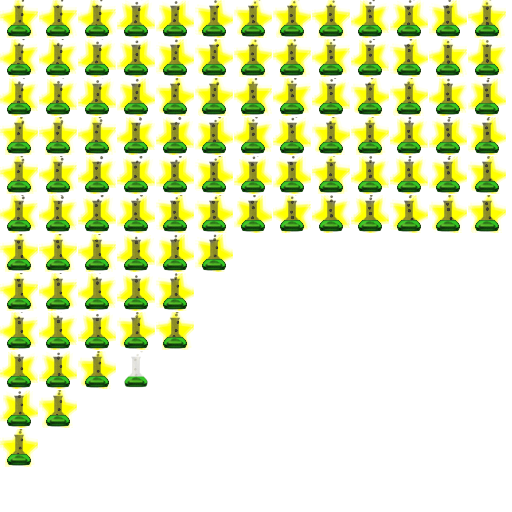
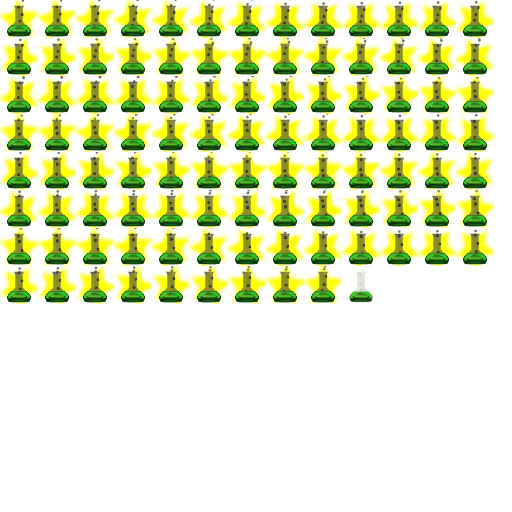
Figured out the ezgui atlas; previous atlas code unnecessary

diff --git a/ScienceAlert/Toolbar/ApplicationLauncher/AppLauncherInterface.cs b/ScienceAlert/Toolbar/ApplicationLauncher/AppLauncherInterface.cs
@@ -37,7 +37,7 @@ namespace ScienceAlert.Toolbar
 
         private IDrawable drawable;
         private ApplicationLauncherButton button;
-        private PackedSprite animationSprite;
+        private PackedSprite sprite; // animations: Spin, Unlit
 
 /******************************************************************************
  *                    Implementation Details
@@ -54,100 +54,32 @@ namespace ScienceAlert.Toolbar
             while (!ApplicationLauncher.Ready)
                 yield return null;
 
-            Log.Write("Testing app launcher textures");
-
-            Func<int, int, string> GetFrame = delegate(int frame, int desiredLen)
-            {
-                string str = frame.ToString();
-
-                while (str.Length < desiredLen)
-                    str = "0" + str;
-
-                return str;
-            };
-
-            #region atlas creation
-
-#if (DEBUG && GENERATE_ATLAS)
-            //Log.Write("Generating atlas");
-
-            //ConfigNode node;
-            //var textures = new List<Texture2D>();
-
-            //Func<int, int, string> GetFrame = delegate(int frame, int desiredLen)
-            //{
-            //    string str = frame.ToString();
-
-            //    while (str.Length < desiredLen)
-            //        str = "0" + str;
-
-            //    return str;
-            //};
-
-            //for (int i = 0; i < 100; ++i)
-            //{
-            //    var intermediate = GameDatabase.Instance.GetTexture(string.Format("/flask{0}", GetFrame(i + 1, 4)), false);
-            //    if (intermediate == null) Log.Error("failed to find frame " + string.Format("flask{0}", GetFrame(i + 1, 4)));
-
-            //    textures.Add(intermediate);
-            //}
-            //var atlasTexture = GuiUtil.CreateAtlas(512, 512, out node, textures);
-            //atlasTexture.SaveToDisk("finished_atlas.png");
-#endif
-            #endregion
-
-            // looks like we need to use a PackedSprite if we want
-            // button animations
-            //var normalTex = GameDatabase.Instance.GetTexture("ScienceAlert/normal", false);
-            //if (normalTex == null) Log.Error("normal is null");
 
             var sheet = ResourceUtil.GetEmbeddedTexture("ScienceAlert.Resources.sheet_app.png", true, false);
             if (sheet == null) Log.Error("Failed to locate embedded app sheet texture!");
 
-            sheet.CreateReadable().SaveToDisk("extracted.png");
-
-            //Log.Write("loaded normaltex");
-            //normalTex.SaveToDisk("saved.png");
-
-            animationSprite = PackedSprite.Create("ScienceAlert.Button.Animation", Vector3.zero);
-            animationSprite.SetMaterial(new Material(Shader.Find("Sprite/Vertex Colored")) { mainTexture = sheet });
-            
+            sprite = PackedSprite.Create("ScienceAlert.Button.Animation", Vector3.zero);
+            sprite.SetMaterial(new Material(Shader.Find("Sprite/Vertex Colored")) { mainTexture = sheet });
+            sprite.Setup(38f, 38f);
+            sprite.SetFramerate(24f);
+            sprite.SetAnchor(SpriteRoot.ANCHOR_METHOD.UPPER_LEFT);
+            //sprite.renderCamera = Camera.allCameras.ToList().Find(c => (c.cullingMask & (1 << LayerMask.NameToLayer("EzGUI_UI"))) != 0);
+            sprite.gameObject.layer = LayerMask.NameToLayer("EzGUI_UI");
 
             Log.Write("setup sprite");
 
             // normal state
-                // todo
+            UVAnimation normal = new UVAnimation() { name = "Unlit", loopCycles = 0, framerate = 24f };
+            normal.BuildUVAnim(sprite.PixelCoordToUVCoord(9 * 38, 8 * 38), sprite.PixelSpaceToUVSpace(38, 38), 1, 1, 1);
 
             // animated state
-            animationSprite.Setup(38f, 38f);
-            animationSprite.SetFramerate(24f);
-            animationSprite.SetAnchor(SpriteRoot.ANCHOR_METHOD.UPPER_LEFT);
+            UVAnimation anim = new UVAnimation() { name = "Spin", loopCycles = -1, framerate = 24f };
+            anim.BuildWrappedUVAnim(new Vector2(0, 1f - sprite.PixelSpaceToUVSpace(38, 38).y), sprite.PixelSpaceToUVSpace(38, 38), 100);
 
-            UVAnimation anim = new UVAnimation();
-            SPRITE_FRAME[] frames = new SPRITE_FRAME[100];
-            UvAtlas atlas = UvAtlas.LoadFromResource("ScienceAlert.Resources.atlas.txt", sheet.width, sheet.height);
-            
-            Log.Write("zero at {0}", animationSprite.PixelCoordToUVCoord(0, 0));
-            Log.Write("dimensions: {0}", animationSprite.PixelSpaceToUVSpace(38, 38));
+            // add animations to button
+            sprite.AddAnimation(normal);
+            sprite.AddAnimation(anim);
 
-
-            for (int frame = 0; frame < 100; ++frame)
-            {
-                frames[frame] = new SPRITE_FRAME(0);
-                frames[frame].uvs = atlas.GetUV(string.Format("flask{0}", GetFrame(frame + 1, 4)));
-
-                Log.Write("frame {0} = {1}", frame, frames[frame].uvs);
-            }
-
-            anim.framerate = 24f;
-            anim.loopCycles = -1;
-            anim.name = "Spin";
-            anim.SetAnim(frames);
-
-            animationSprite.AddAnimation(anim);
-            animationSprite.renderCamera = Camera.allCameras.ToList().Find(c => (c.cullingMask & (1 << LayerMask.NameToLayer("EzGUI_UI"))) != 0);
-            animationSprite.gameObject.layer = LayerMask.NameToLayer("EzGUI_UI");
-  
 
             Log.Debug("Creating mod button...");
             button = ApplicationLauncher.Instance.AddModApplication(
@@ -158,12 +90,9 @@ namespace ScienceAlert.Toolbar
                                                         () => { },
                                                         () => { },
                                                         ApplicationLauncher.AppScenes.FLIGHT | ApplicationLauncher.AppScenes.MAPVIEW,
-                                                        animationSprite);
+                                                        sprite);
 
-
-            Log.Write("playing anim");
-            //button.PlayAnim();
-            animationSprite.PlayAnim("Spin");
+            sprite.PlayAnim("Unlit");
 
             Log.Debug("Finished creating mod button");
         }
@@ -191,22 +120,26 @@ namespace ScienceAlert.Toolbar
 
         public void PlayAnimation()
         {
-            
+            sprite.PlayAnim("Spin");
         }
 
         public void StopAnimation()
         {
-            
+            sprite.PauseAnim();
         }
 
         public void SetUnlit()
         {
-            
+            sprite.PlayAnim("Unlit");
         }
 
         public void SetLit()
         {
-
+            if (sprite.GetCurAnim().name != "Spin")
+            {
+                sprite.SetFrame("Spin", 0);
+            }
+            else sprite.PauseAnim();
         }
 
 
@@ -218,7 +151,7 @@ namespace ScienceAlert.Toolbar
         {
             get
             {
-                return false;
+                return sprite.IsAnimating();
             }
         }
 
@@ -226,7 +159,7 @@ namespace ScienceAlert.Toolbar
         {
             get
             {
-                return false;
+                return sprite.GetCurAnim().name == "Unlit";
             }
         }
 
@@ -234,7 +167,7 @@ namespace ScienceAlert.Toolbar
         {
             get
             {
-                return false;
+                return sprite.GetCurAnim().name == "Spin" && !sprite.IsAnimating();
             }
         }
 
